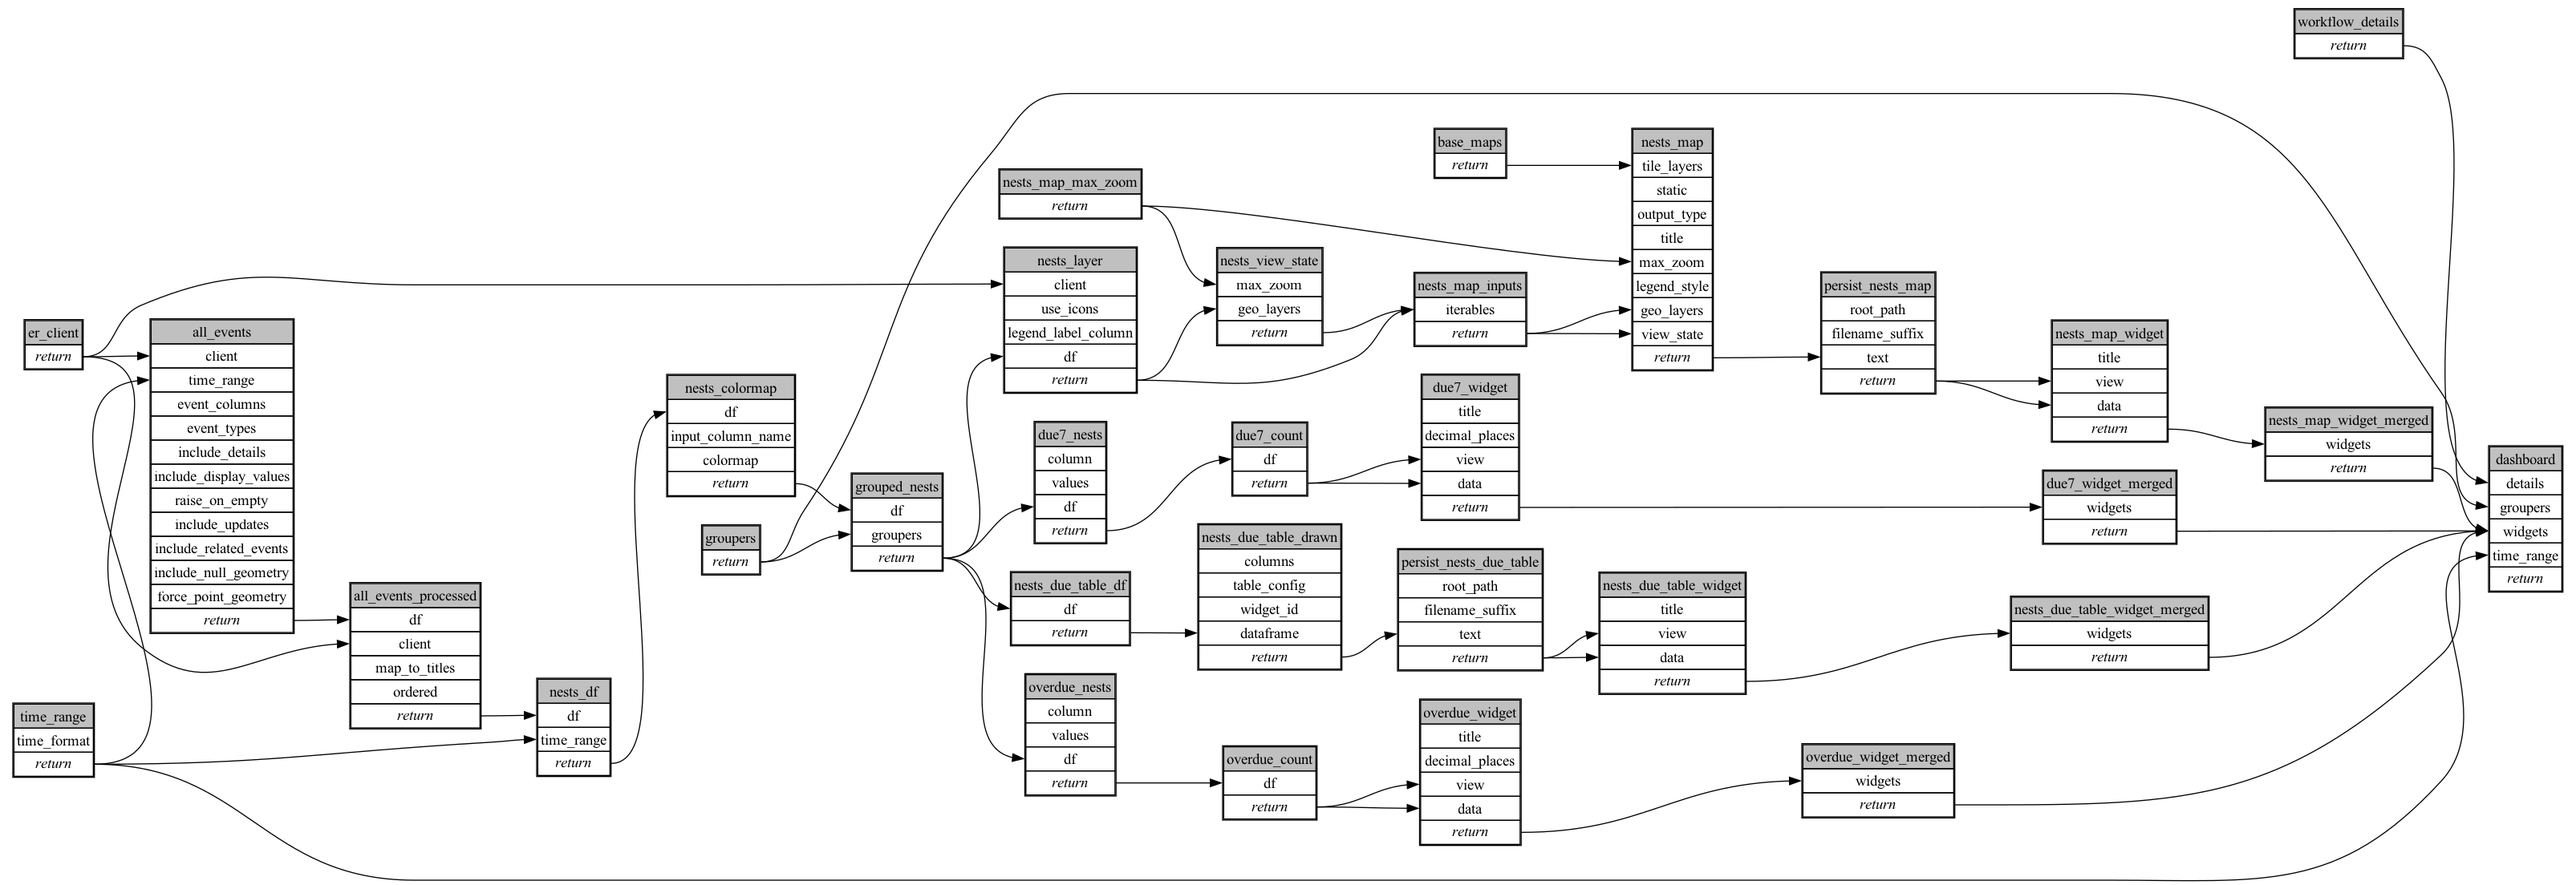
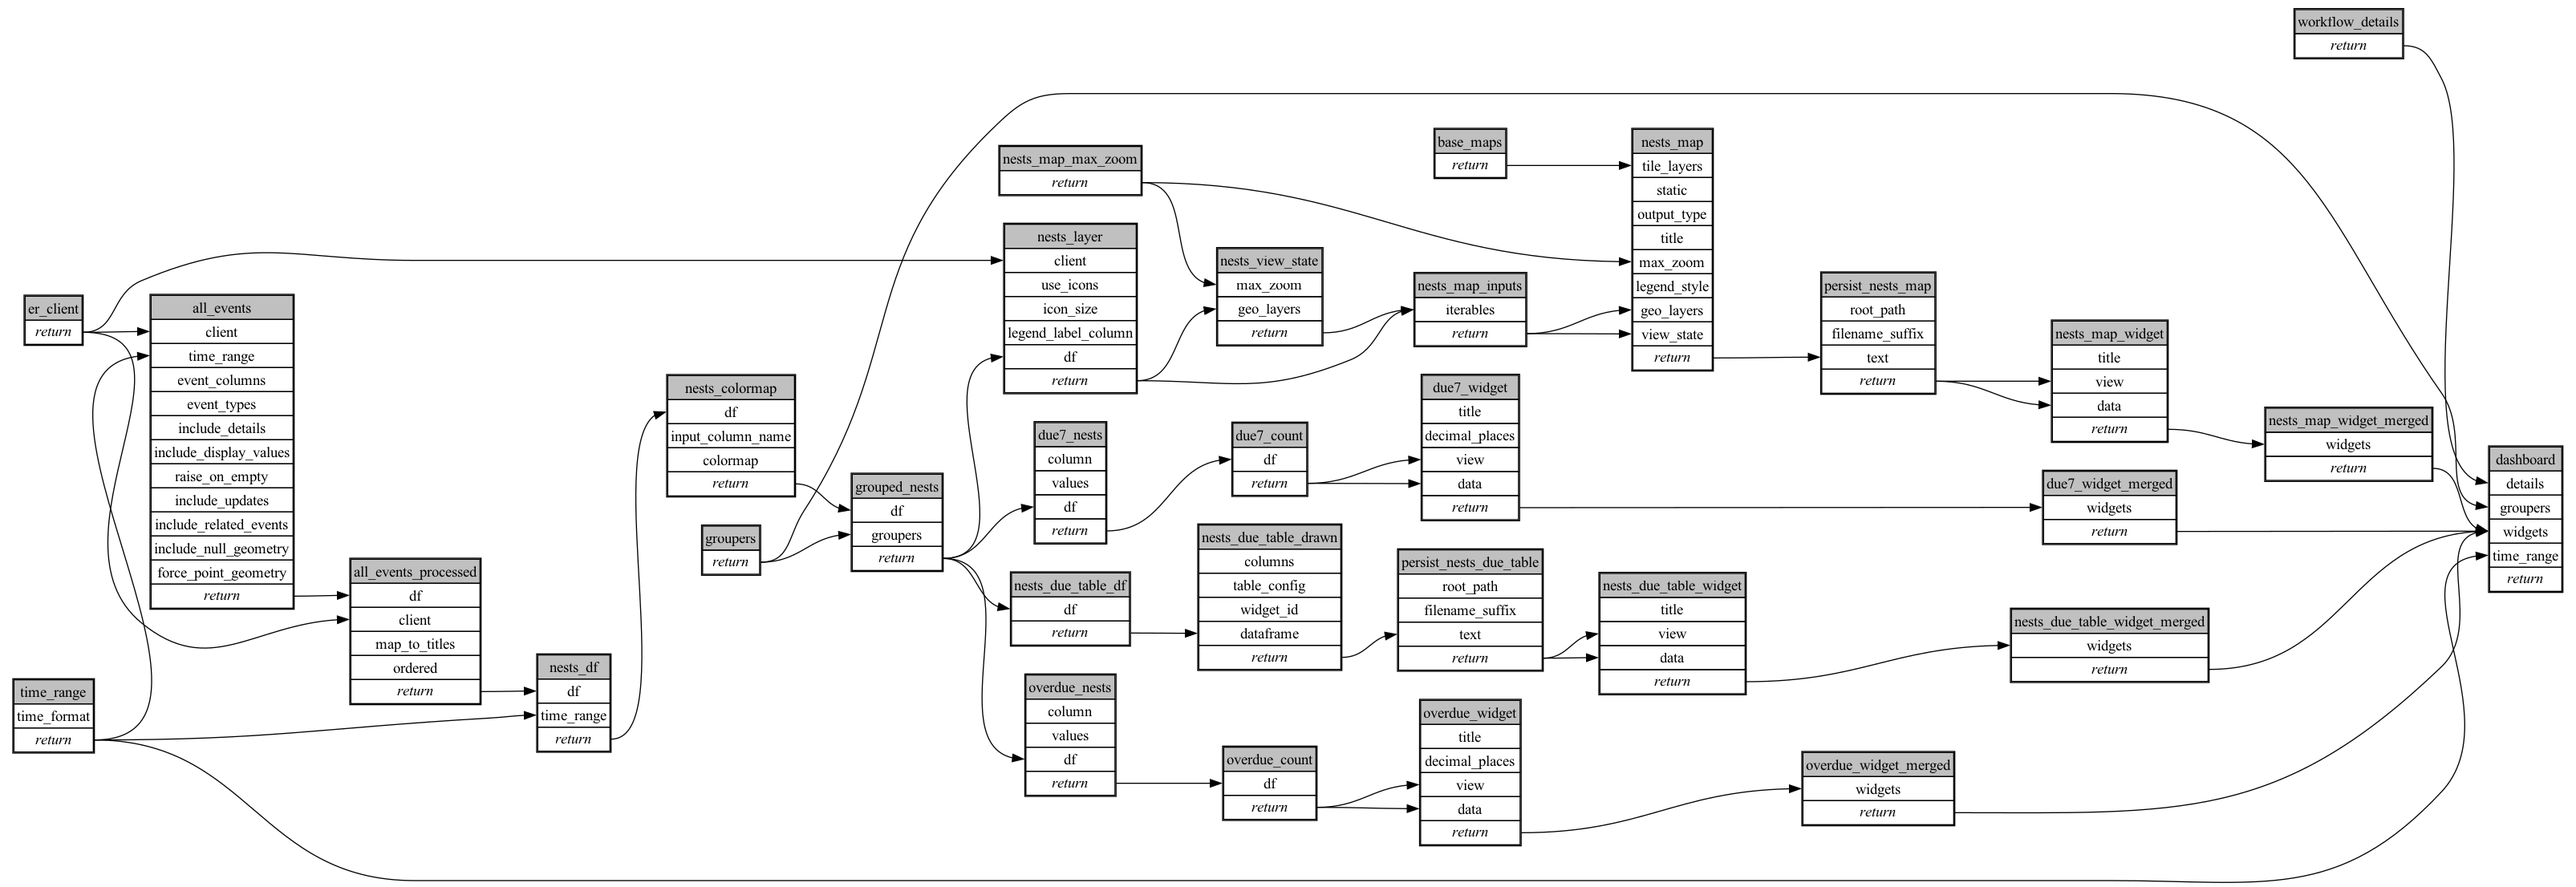
Pin ext-curacao to published 0.0.4, hide icon_size, stop tracking Makefile
- Point spec.yaml at the real published ecoscope-workflows-ext-curacao
  channel/version instead of the local dev artifact path
- Lock icon_size via partial since icons are never enabled in this workflow
- Add a top-level README documenting the dashboard, event-type scope, and
  grouping/status behavior
- Stop tracking Makefile (gitignored) now that its dev-command docs live
  outside the README

diff --git a/ecoscope-workflows-nests-due-hatching-workflow/ecoscope_workflows_nests_due_hatching_workflow/dags/run_sequential.py b/ecoscope-workflows-nests-due-hatching-workflow/ecoscope_workflows_nests_due_hatching_workflow/dags/run_sequential.py
@@ -439,6 +439,7 @@ def main(params: dict[str, Any], validate_params_schema: bool = True):
         .partial(
             client=er_client,
             use_icons=False,
+            icon_size=32,
             legend_label_column="status",
             **(params.get("nests_layer") or {}),
         )

diff --git a/ecoscope-workflows-nests-due-hatching-workflow/ecoscope_workflows_nests_due_hatching_workflow/dags/run_sequential_mock_io.py b/ecoscope-workflows-nests-due-hatching-workflow/ecoscope_workflows_nests_due_hatching_workflow/dags/run_sequential_mock_io.py
@@ -458,6 +458,7 @@ def main(params: dict[str, Any], validate_params_schema: bool = True):
         .partial(
             client=er_client,
             use_icons=False,
+            icon_size=32,
             legend_label_column="status",
             **(params.get("nests_layer") or {}),
         )

diff --git a/README.md b/README.md
@@ -1,0 +1,41 @@
+# Nests Due for Hatching
+
+Daily-operations workflow for Curaçao's sea turtle monitoring program. It pulls suspected nest events from EarthRanger, computes each nest's status relative to its expected hatching date, and produces a dashboard grouped by beach, so field teams can see at a glance which nests are overdue for excavation, which are coming due within the week, and where they are.
+
+## Dashboard widgets
+
+| Widget | Description |
+|--------|-------------|
+| Overdue Nests | Count of nests already past their expected hatching date |
+| Due Within 7 Days | Count of nests due today through 7 days out |
+| Nests Map | Every nest plotted at its recorded coordinates, coloured by status (Overdue / Due within 7 days / Active / Unknown) |
+| Nest Summary | One row per nest, with Location, Beach, Coordinates, Species, Activity ID, Relocation, Date laid, Expected hatching date, Status, and 3× triangulation item/distance pairs. Sortable, filterable, downloadable. |
+
+Every widget is split into a tab per group (see **Grouping** below). Switching tabs filters all four to that group's data.
+
+## Event types
+
+| Event type | Used? | Notes |
+|------------|-------|-------|
+| (suspected) Nest V2 | ✅ | The only event type currently fetched. Carries the hatching schedule (expected hatching date, species, triangulation) that drives this whole workflow. |
+| Attempt V2 | ❌ | Deliberately excluded. These record crawls where the turtle made body pits but did not lay eggs, so there is no expected hatching date and nothing to schedule against. |
+| Relocation Data V2 | ❌ | Not yet included. It's missing `species`, `relocation`, and `expected_hatching_date` entirely. It appears to record only the physical act of relocating a nest (new coordinates, new triangulation), not a standalone nest record with its own due date. Adding it requires deciding whether relocated nests should appear on their own (status `Unknown`, no due date) or be joined back to the original nest record they belong to, so they inherit its real hatching date. |
+
+## Grouping
+
+The dashboard groups by **Beach** (default) or **Location**, selectable via the `groupers` field. `Location` maps to a single fixed value in the current EarthRanger instance (Curaçao is the only site), so in practice `Beach` is the meaningful grouping dimension. `Location` is kept available in case that changes.
+
+"Today," for the purposes of computing each nest's status (Overdue / Due within 7 days / Active), is taken from the workflow's own configured time range (`until`) rather than the real wall-clock date. That way a run always classifies nests consistently with whatever period it was configured to look at, including re-runs against a past window.
+
+## Status thresholds
+
+| Status | Condition |
+|--------|-----------|
+| Overdue | Expected hatching date is in the past |
+| Due within 7 days | Due today, or anytime in the next 7 days (inclusive) |
+| Active | More than 7 days out |
+| Unknown | No expected hatching date recorded |
+
+## Requirements
+
+[pixi](https://pixi.sh) is required for environment and dependency management. You will also need an EarthRanger connection configured for the `curacao` data source.

diff --git a/ecoscope-workflows-nests-due-hatching-workflow/README.md b/ecoscope-workflows-nests-due-hatching-workflow/README.md
@@ -5,8 +5,8 @@
 
 ```yaml
 # fingerprint:
-artifacts_sha256_basic: 84a60720c98179e05b6a0dbc2acfaee330e90c38a01fa659d4d73005b17f4465
-artifacts_sha256_strict: 9e675d8162f0d59c3d7eeab810ec0089f1e616840e0b657230f2d65ce135c388
+artifacts_sha256_basic: d343d52257afd7be3a2155c4b4c02219f79f05fd5978d067ad87fb624fb884f4
+artifacts_sha256_strict: 29e4fe13f29599b3cdf8fc491708e56096565ccb4dd11d7a72a75de1e2a88a9a
 installed_requirements:
 - channel: https://repo.prefix.dev/ecoscope-workflows/
   name: ecoscope-platform
@@ -17,11 +17,11 @@ installed_requirements:
 - channel: conda-forge
   name: pydeck
   version: {version: ==0.9.2}
-- channel: file:///tmp/ecoscope-workflows-custom/release/artifacts/
+- channel: https://repo.prefix.dev/ecoscope-workflows-custom/
   name: ecoscope-workflows-ext-curacao
-  version: {version: ==0.0.2}
-params_sha256: f5918e71cd834cf50fccca29ea4e9a9360e5a0d5c1217f7eba06ffff475d1c52
-spec_sha256: 0c5250d83fd876e54b455449fcb49ece2b14e8711d086928f93495d92ea04014
+  version: {version: ==0.0.4}
+params_sha256: 4c936a6525c595a59a0412ce10c6663ff2f68650723fab9cd518f89af2989c69
+spec_sha256: 9a5b7a99df23c2286bd3a1aca17735764d26e34aea509177681281d653191bfd
 
 ```
 
